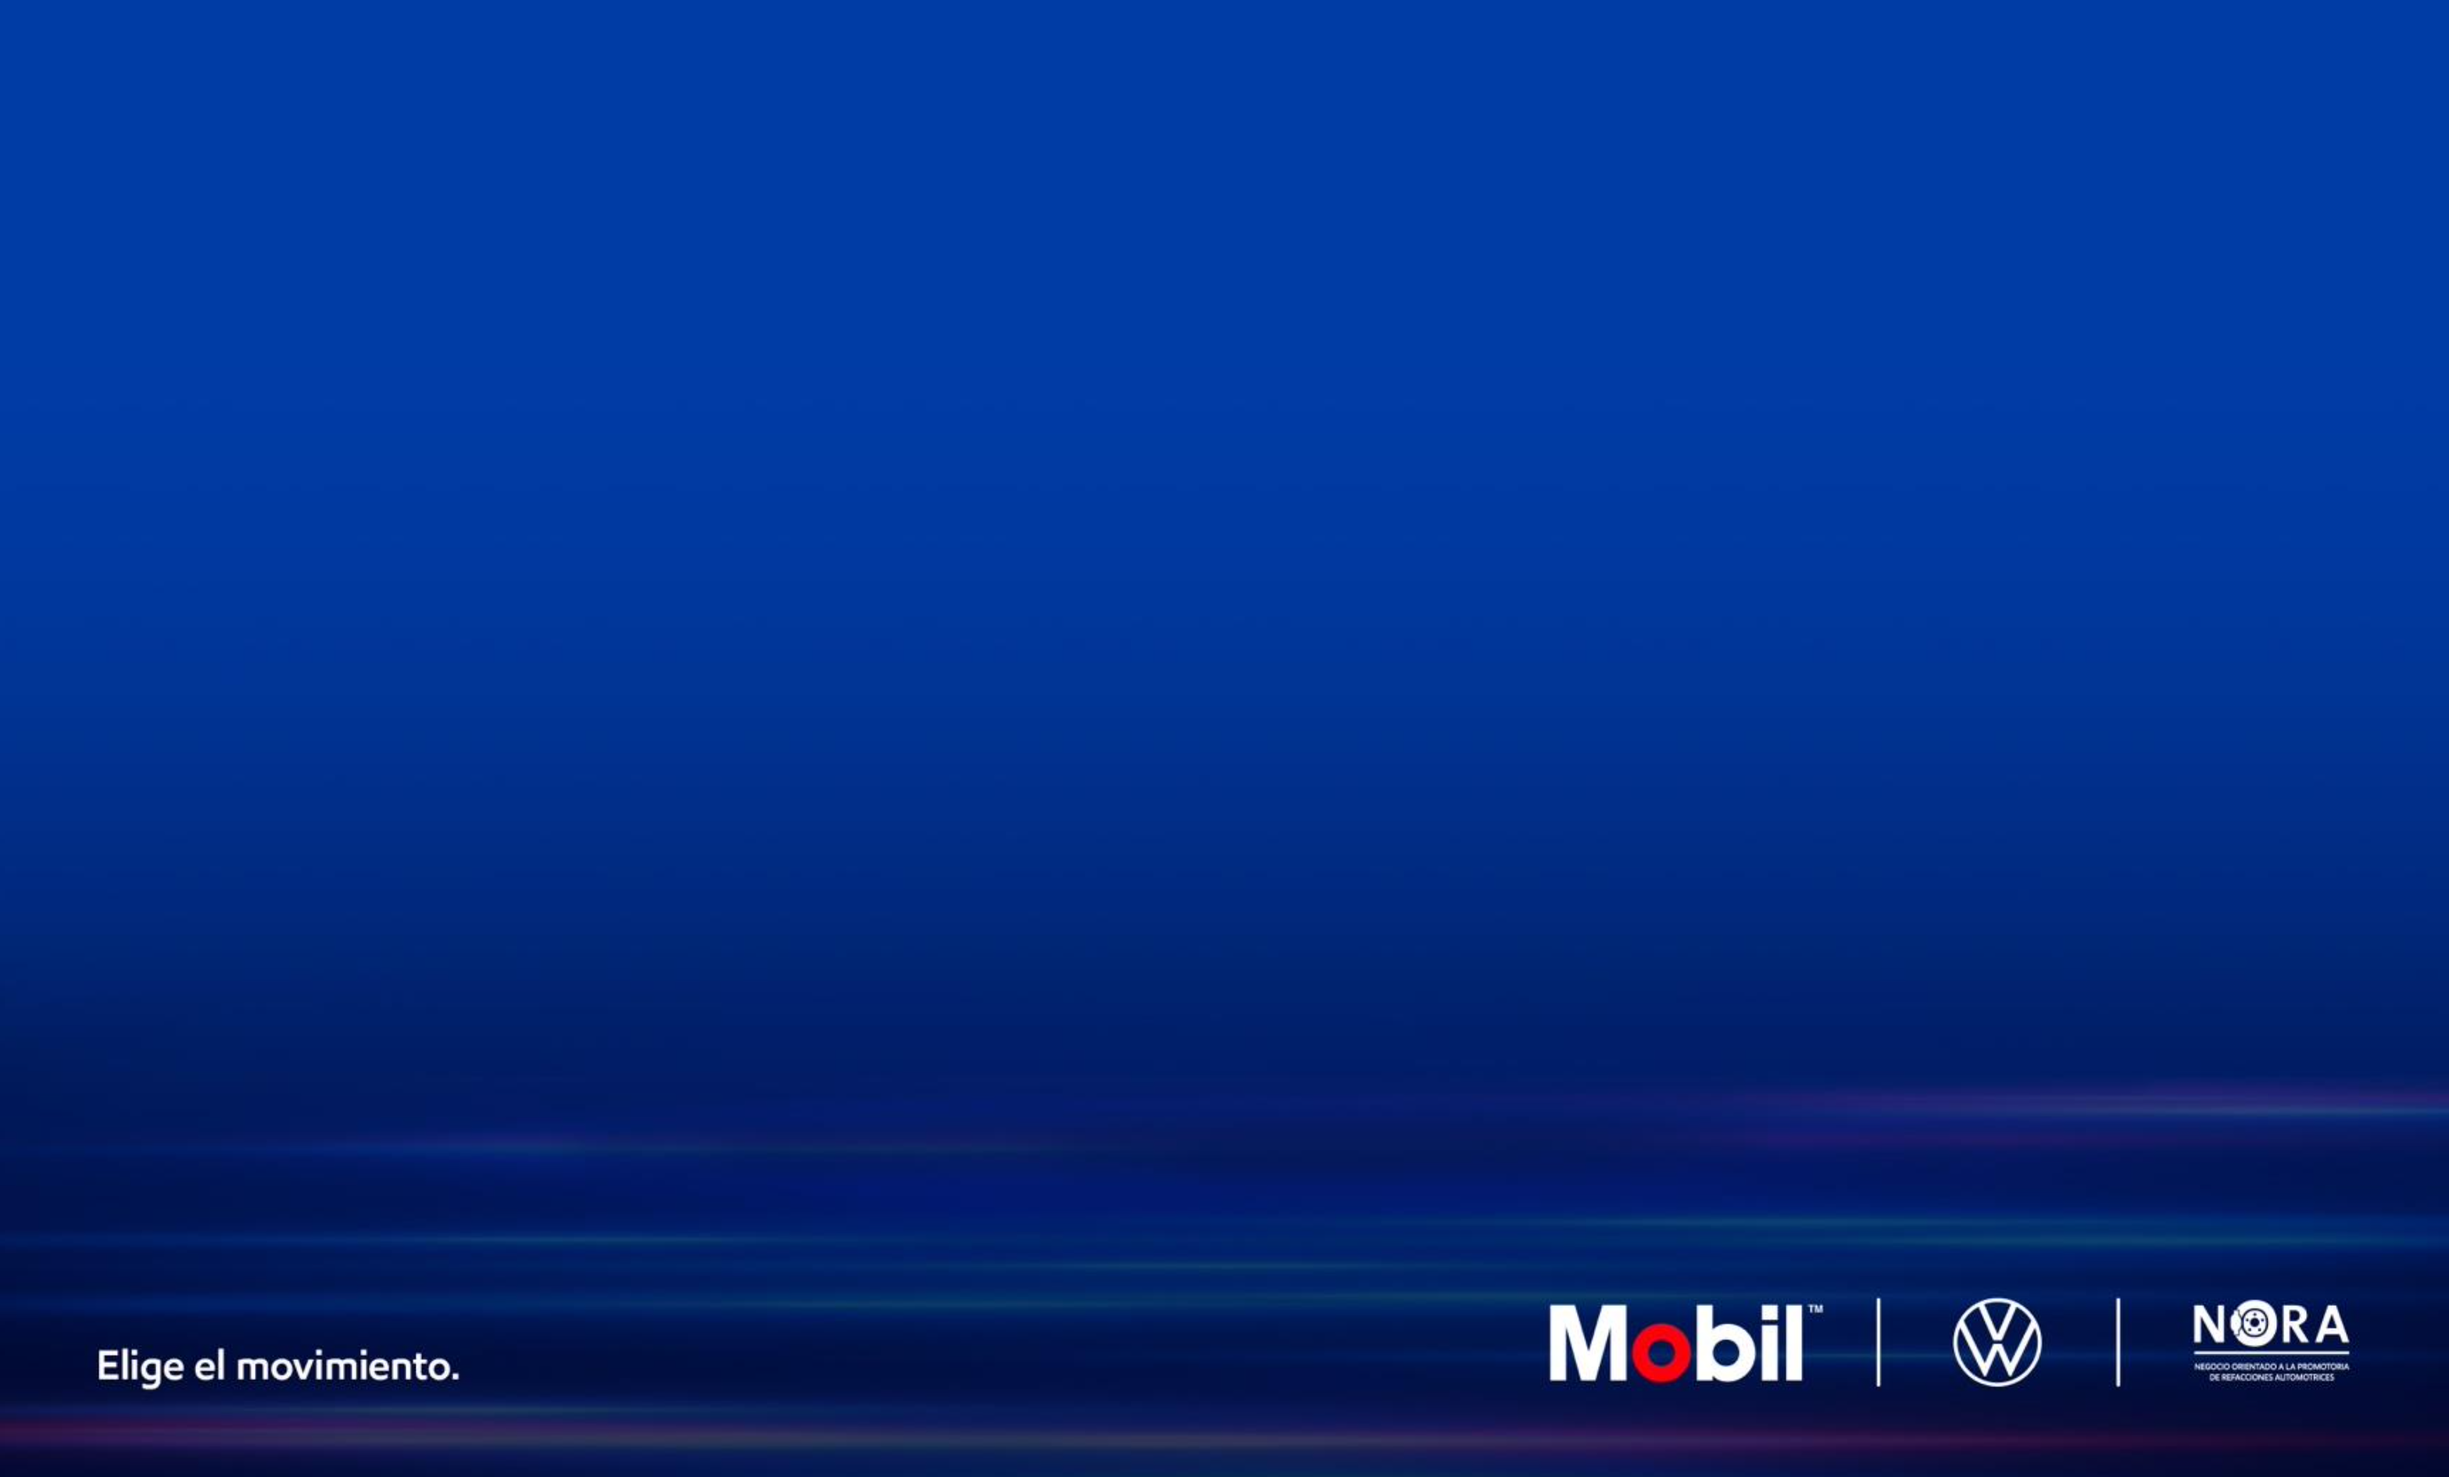
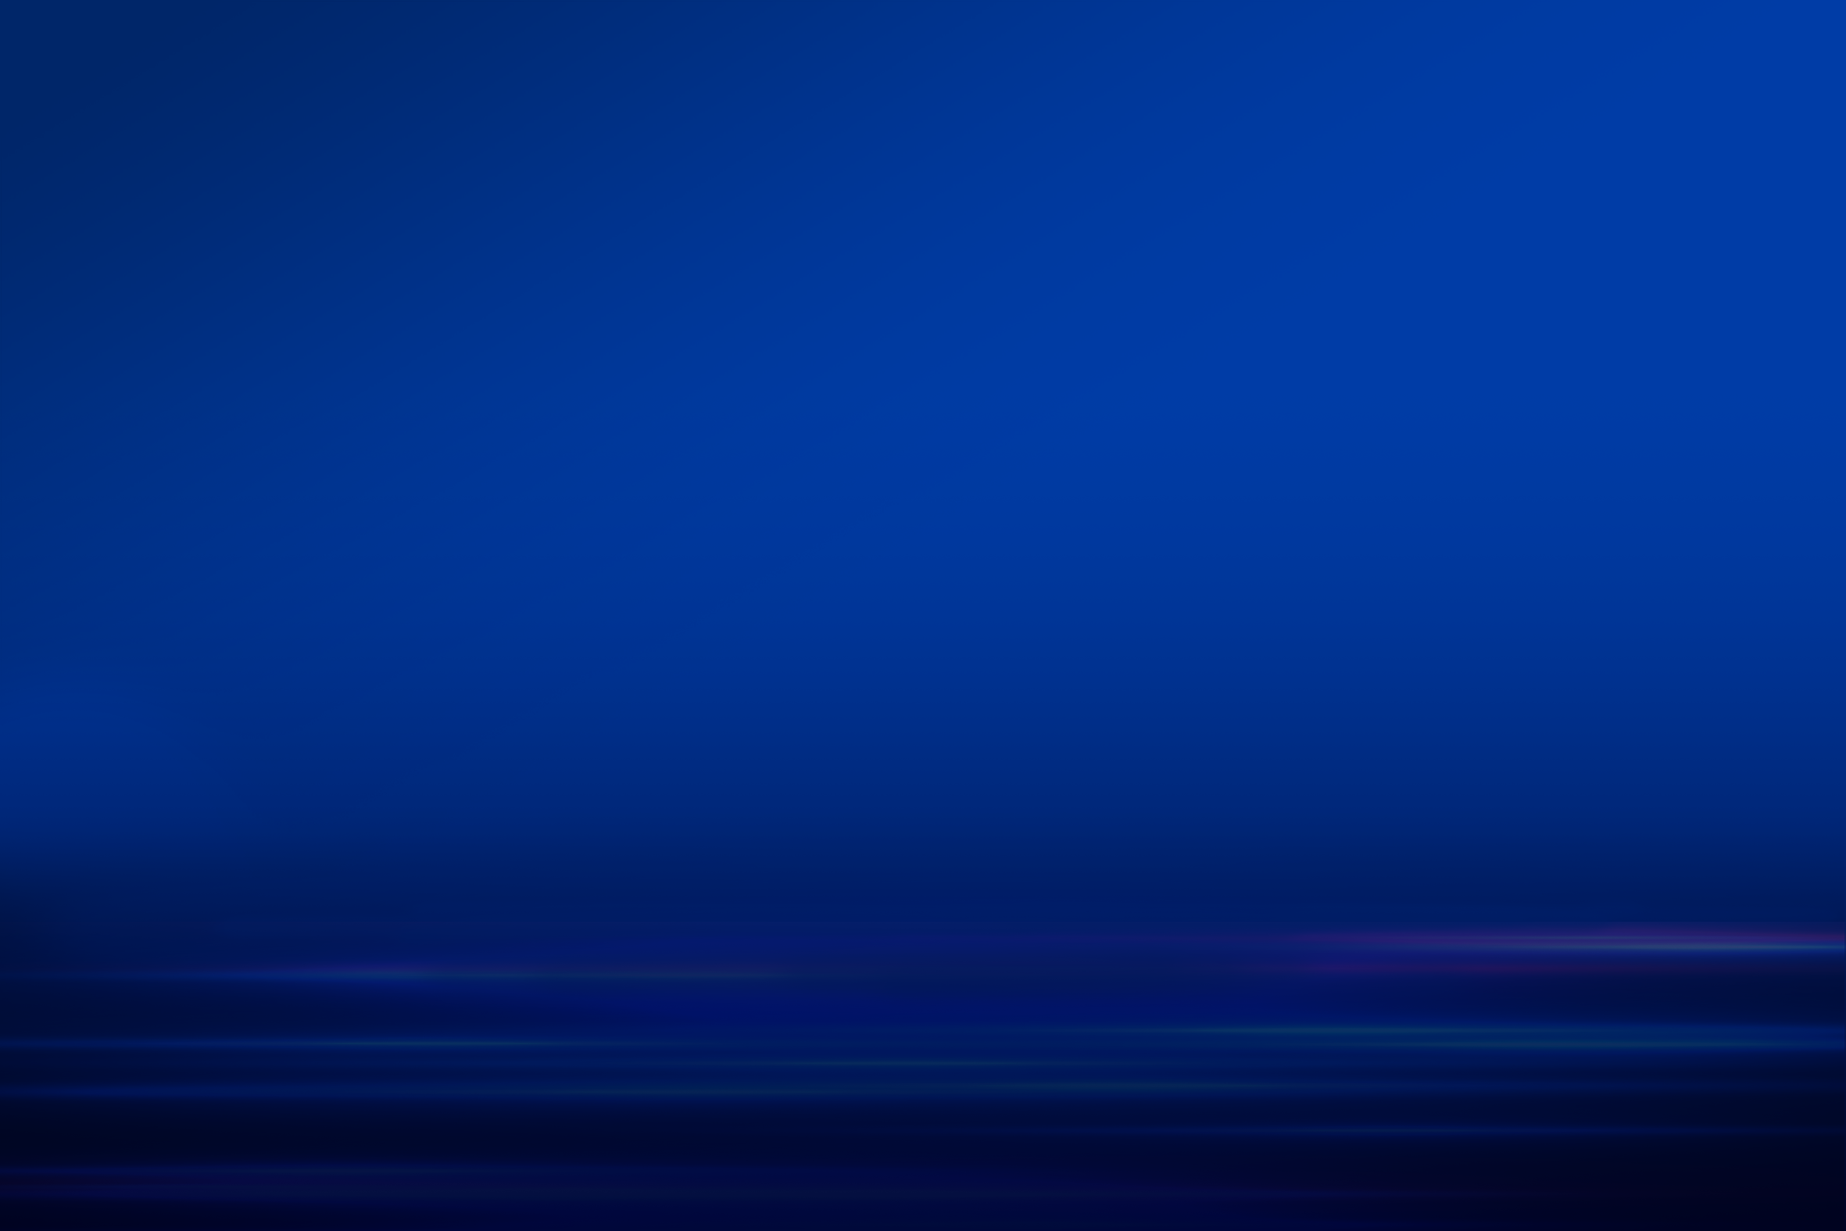
Updated background images

diff --git a/styles/Raffle.module.css b/styles/Raffle.module.css
@@ -65,7 +65,7 @@
   width: 350px;
   height: 350px;
   border-radius: 50%;
-  background: linear-gradient(160.9deg, rgba(52, 205, 240, 0.05)5%, rgba(52, 205, 240, 0.25) 30.09%, rgba(52, 205, 240, 0.25) 70%, rgba(52, 205, 240, 0.05) 94.02%);
+  //background: linear-gradient(160.9deg, rgba(52, 205, 240, 0.05)5%, rgba(52, 205, 240, 0.25) 30.09%, rgba(52, 205, 240, 0.25) 70%, rgba(52, 205, 240, 0.05) 94.02%);
   position: absolute;
   top: 50%;
   left: 50%;
@@ -127,14 +127,14 @@
 /* actions container */
 .actions__container {
     position: absolute;
-    bottom: 10px;
+    bottom: 40px;
     width: 650px;
     display: flex;
     justify-content: center;
     align-items: center;
 }
 .person__icon {
-  font-size: 60px !important;
+  font-size: 40px !important;
 }
 .person__icon, .icon__container p, .icon {
   color: rgba(245, 245, 245, 0.85);
@@ -151,7 +151,7 @@
 .icon__container p {
   margin: auto;
   margin-left: 5px;
-  font-size: 50px;
+  font-size: 40px;
   font-family: 'EMprint';
   font-weight: bold;
 }
@@ -165,7 +165,7 @@
 }
 .icon__image {
   cursor: pointer;
-  width: 35px;
+  width: 30px;
   opacity: 0.85;
   transition: transform 450ms;
 }
@@ -185,15 +185,13 @@
 /* image 1 */
 .image__container1 {
     position: absolute;
-    bottom: 10px;
-    left: 0px;
-    //width: 100px;
+    bottom: 40px;
+    left: 30px;
 }
 
 /* image 2 */
 .image__container2 {
     position: absolute;
-    bottom: 10px;
-    right: 0px;
-    //width: 100px;
+    bottom: 40px;
+    right: 30px;
 }

diff --git a/pages/raffle.tsx b/pages/raffle.tsx
@@ -8,8 +8,9 @@ import Head from 'next/head'
 import Link from 'next/link'
 import styles from '../styles/Raffle.module.css'
 import Image from 'next/image'
-import Logo from '../public/img/mobil_logo.png'
-import Image1 from '../public/img/mobil1.png'
+//import Logo from '../public/img/mobil_logo.png'
+import Text from '../public/img/texto.png'
+import Logos from '../public/img/logos.png'
 
 /* Redux */
 import { selectParticipants, selectIsFinal } from "../redux/states/participants/reducer"
@@ -317,15 +318,15 @@ const Raffle: NextPage = () => {
             {/* Logo image */}
             {/* <div className={styles.logo__container}>
                 <Image src={Logo} width={100} height={30}/>
-            </div>
+            </div>*/}
 
             <div className={styles.image__container1}>
-                <Image src={Image1} width={300} height={100}/>
+                <Image src={Text} width={200} height={40}/>
             </div>
 
             <div className={styles.image__container2}>
-                <Image src={Image1} width={300} height={100}/>
-            </div> */}
+                <Image src={Logos} width={290} height={36}/>
+            </div>
             
         </div>
 

diff --git a/pages/index.tsx b/pages/index.tsx
@@ -8,8 +8,9 @@ import Head from 'next/head'
 import Link from 'next/link'
 import FileButton from '../components/FileButton'
 import Image from 'next/image'
-import Logo from '../public/img/mobil_logo.png'
-import Image1 from '../public/img/mobil1.png'
+//import Logo from '../public/img/mobil_logo.png'
+import Text from '../public/img/texto.png'
+import Logos from '../public/img/logos.png'
 
 /* Redux */
 import { 
@@ -364,15 +365,15 @@ const Home: NextPage = () => {
           {/* Logo image */}
           {/* <div className={styles.logo__container}>
               <Image src={Logo} width={100} height={30}/>
-          </div>
+          </div> */}
 
           <div className={styles.image__container1}>
-              <Image src={Image1} width={400} height={120}/>
+              <Image src={Text} width={200} height={40}/>
           </div>
 
           <div className={styles.image__container2}>
-              <Image src={Image1} width={400} height={120}/>
-          </div> */}
+              <Image src={Logos} width={290} height={36}/>
+          </div>
 
         </div>
       </main>

diff --git a/styles/Home.module.css b/styles/Home.module.css
@@ -106,13 +106,13 @@
 /* image 1 */
 .image__container1 {
     position: absolute;
-    bottom: 0px;
-    left: 0px;
+    bottom: 40px;
+    left: 30px;
 }
 
 /* image 2 */
 .image__container2 {
     position: absolute;
-    bottom: 0px;
-    right: 0px;
+    bottom: 40px;
+    right: 30px;
 }
